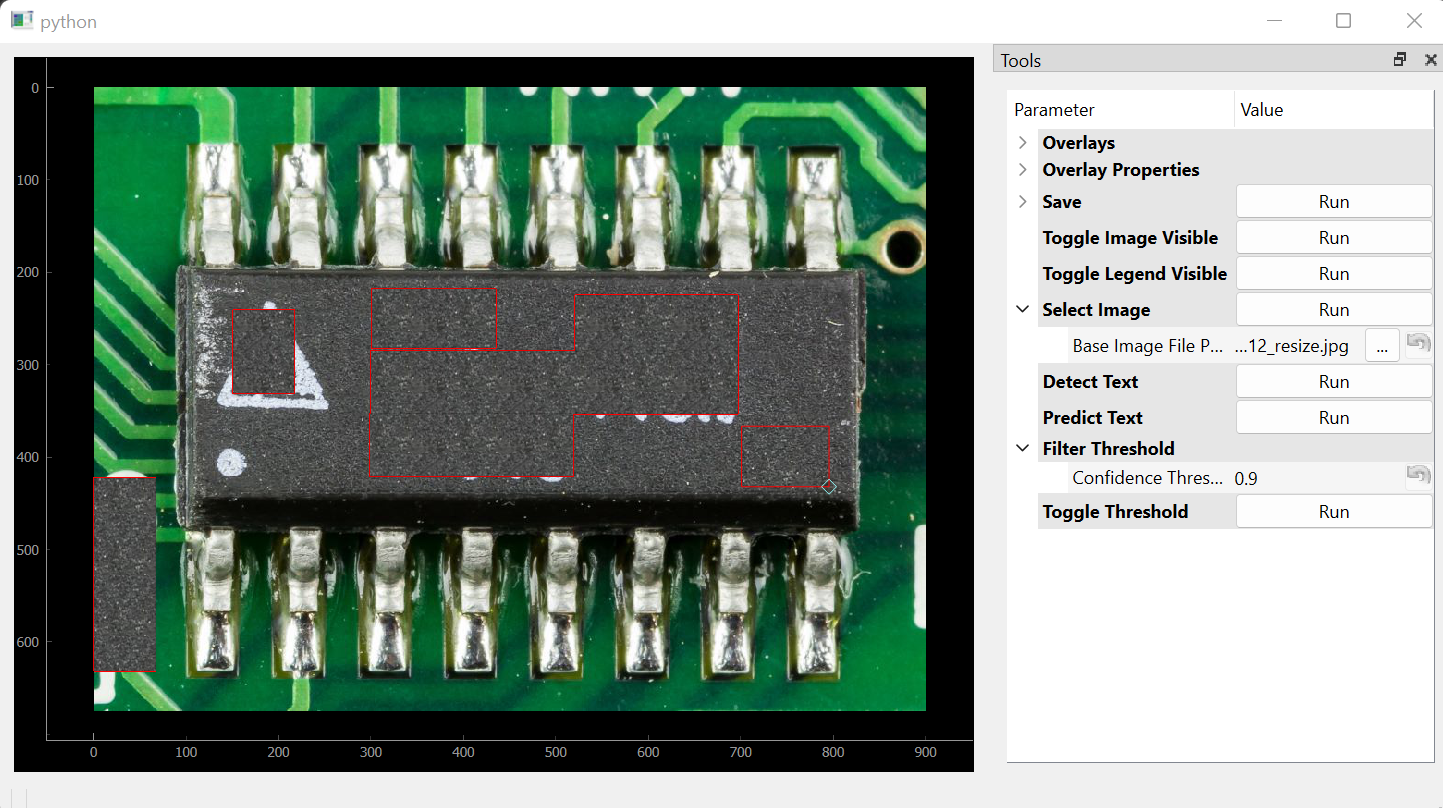
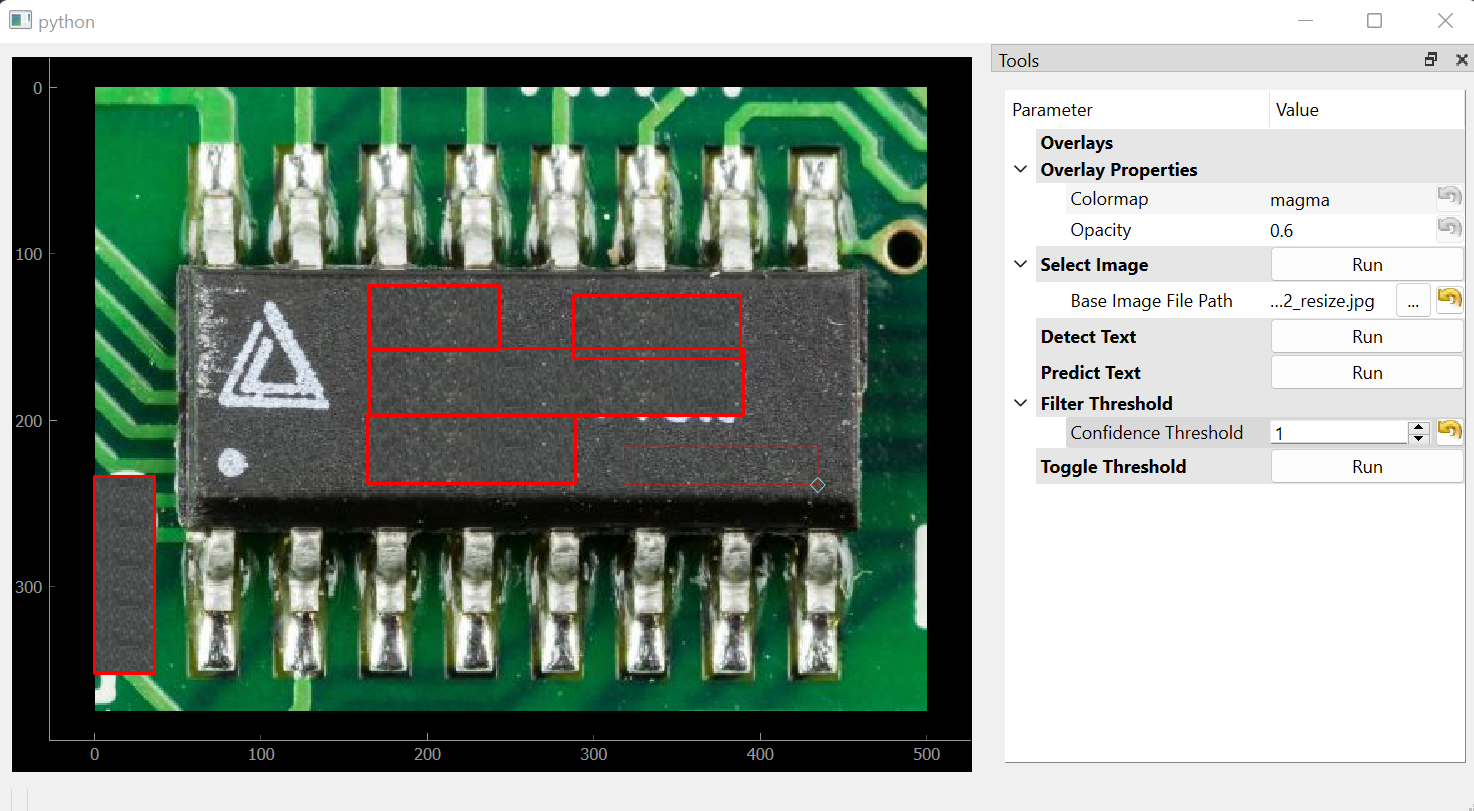
updated text/conf display box

diff --git a/realtime_ocr_visualization.py b/realtime_ocr_visualization.py
@@ -60,17 +60,11 @@ class TextRecItem(QtWidgets.QGraphicsRectItem):
         self.text = text
         self.confidence = confidence
 
-        self.display_text = TextDisplayBox(text)
+        self.display_text = TextDisplayBox("Prediction: " + text + '\n' + "Confidence: " + str(confidence))
         self.display_text.setParentItem(self)
         self.display_text.hide()
         self.display_text.setPos(self.rect().topLeft())
 
-        # self.display_text = QtWidgets.QGraphicsTextItem()
-        # self.display_text.setPlainText("Prediction: " + text + '\n' + "Confidence: " + str(confidence))
-        # self.display_text.setParentItem(self)
-        # self.display_text.hide()
-
-        #self.display_text.setPos(self.rect().topLeft())
         viewer.addItem(self.display_text)
 
     def hoverEnterEvent(self, event):
@@ -249,8 +243,8 @@ class OCRSceneContainer:
         viewer.addItem(self.roi)
 
     # select an image from a directory
-    @bind(base_image_file_path=dict(type="file", nameFilter="*.jpg"))
-    def select_img(self, base_image_file_path=image_option_1):
+    @bind(base_image_file_path=dict(type="file", value=""))
+    def select_img(self, base_image_file_path):
         # delete any old images if a new base image has been selected
         viewer.clearOverlays()
 
@@ -332,109 +326,9 @@ class OCRSceneContainer:
             viewer.addItem(item)
 
 
-# class RectManager(QtWidgets.QGraphicsItemGroup):
-#     def __init__(self, view=None):
-#         super().__init__()
-#         self.view = view
-#         #self.setHandlesChildEvents(False)
-#
-#     def set_rects(self, bboxes, texts, confidences):
-#         pass
-#
-#
-# class OCRResultSceneViewer(ImageViewer):
-#     def __init__(self, *args, **kwargs):
-#         super().__init__(*args, **kwargs)
-#         self.rect_manager = RectManager(self.getViewBox())
-#         self.addItem(self.rect_manager)
-#
-#         self.toolsEditor.registerFunction(
-#             self.select_image, runOptions=RunOptions.ON_CHANGED
-#         )
-#
-#     # select an image from a directory
-#     @bind(image_file_path=dict(type="file", value=""))
-#     def select_image(self, image_file_path: str | Path):
-#         image = Image.open(image_file_path)
-#         image_np = np.array(image)[..., :3]
-#         self.setImage(image_np)
-#
-#         # automatically run text detection
-#         # returns bounding boxes with [(x1, y1), (x2, y2), (x3, y3), (x4, y4)]
-#         ocr_result_dir = './result/'
-#         bboxes = self.detect_text(image_file_path, ocr_result_dir)
-#
-#         # automatically run text recognition
-#         texts, confidences = self.predict_text(bboxes)
-#
-#         self.rect_manager.set_rects(bboxes, texts, confidences)
-#
-#     def detect_text(self, image_file_path, res_dir):
-#         # CRAFT produces an image with red bounding box, a heatmap image, and text file of coordinates
-#         # of resulting mask in the provided directory. The number of lines in the mask text folder correspond
-#         # to the number of detected words (empty line between bounding box coordinates)
-#         # TODO Optimize to run concurrently to not stall the application and error checking
-#         error = runCRAFTSingleImage(image_file_path, res_dir)
-#
-#         # file path to mask text file
-#         res_mask_txt_path = self.get_res_mask_txt_file_path(image_file_path)
-#
-#         # open mask text file and read each line
-#         with open(res_mask_txt_path) as f:
-#             raw_mask_txt_lines = f.readlines()
-#
-#         # strip the newline characters
-#         count = 0
-#         mask_txt_lines = []
-#         for line in raw_mask_txt_lines:
-#             if line == '\n':
-#                 continue
-#             count += 1
-#             mask_txt_lines.append(line.strip('\n'))
-#
-#         # create TextDetectItems for each detected word
-#         items = []
-#         for line in mask_txt_lines:
-#             x1 = line.split(',')[0]
-#             y1 = line.split(',')[1]
-#             x2 = line.split(',')[2]
-#             y2 = line.split(',')[3]
-#             x3 = line.split(',')[4]
-#             y3 = line.split(',')[5]
-#             x4 = line.split(',')[6]
-#             y4 = line.split(',')[7]
-#
-#             #rect = TextDetectItem([[int(x1), int(y1)], [int(x2), int(y2)], [int(x3), int(y3)], [int(x4), int(y4)]])
-#             #rect.setPen(QtGui.QPen(QtGui.QColor("red"), 2.0))
-#             rect = [[int(x1), int(y1)], [int(x2), int(y2)], [int(x3), int(y3)], [int(x4), int(y4)]]
-#             items.append(rect)
-#             #viewer.addItem(rect)
-#
-#         #self.detect_items = items
-#         return items
-#
-#     def predict_text(self, bboxes):
-#
-#
-#     @staticmethod
-#     def get_res_mask_txt_file_path(img_file_path):
-#         base_img_file_path_words = img_file_path.split('\\')
-#         base_img_name_w_ext = base_img_file_path_words[-1]
-#         base_img_name_wo_ext = base_img_name_w_ext.split('.')[0]
-#         res_mask_txt_path = os.getcwd() + r'\result\res_' + base_img_name_wo_ext + '.txt'
-#         return res_mask_txt_path
-
-
 if __name__ == '__main__':
 
     pg.mkQApp()
-
-    # viewer = OCRResultSceneViewer()
-    # container = viewer.widgetContainer()
-    #
-    # viewer.select_image(image_file_path=image_option_1)
-    #
-    # container.show()
 
     # MaskCompositor is a subclass of an ImageViewer and allows you to easily overlay images from
     # Nathan Jessurun's custom PyQt library: https://pypi.org/project/qtextras/

diff --git a/README.md b/README.md
@@ -6,6 +6,7 @@
 
 *Hover over bounding boxes to display predicted text and confidence value*
 <img src="./figures/text_predict_results.png">
+<img src="./figures/filter_threshold_results.png">
 <img src="./figures/inpainting_results.png">
 
 ## Getting Started
